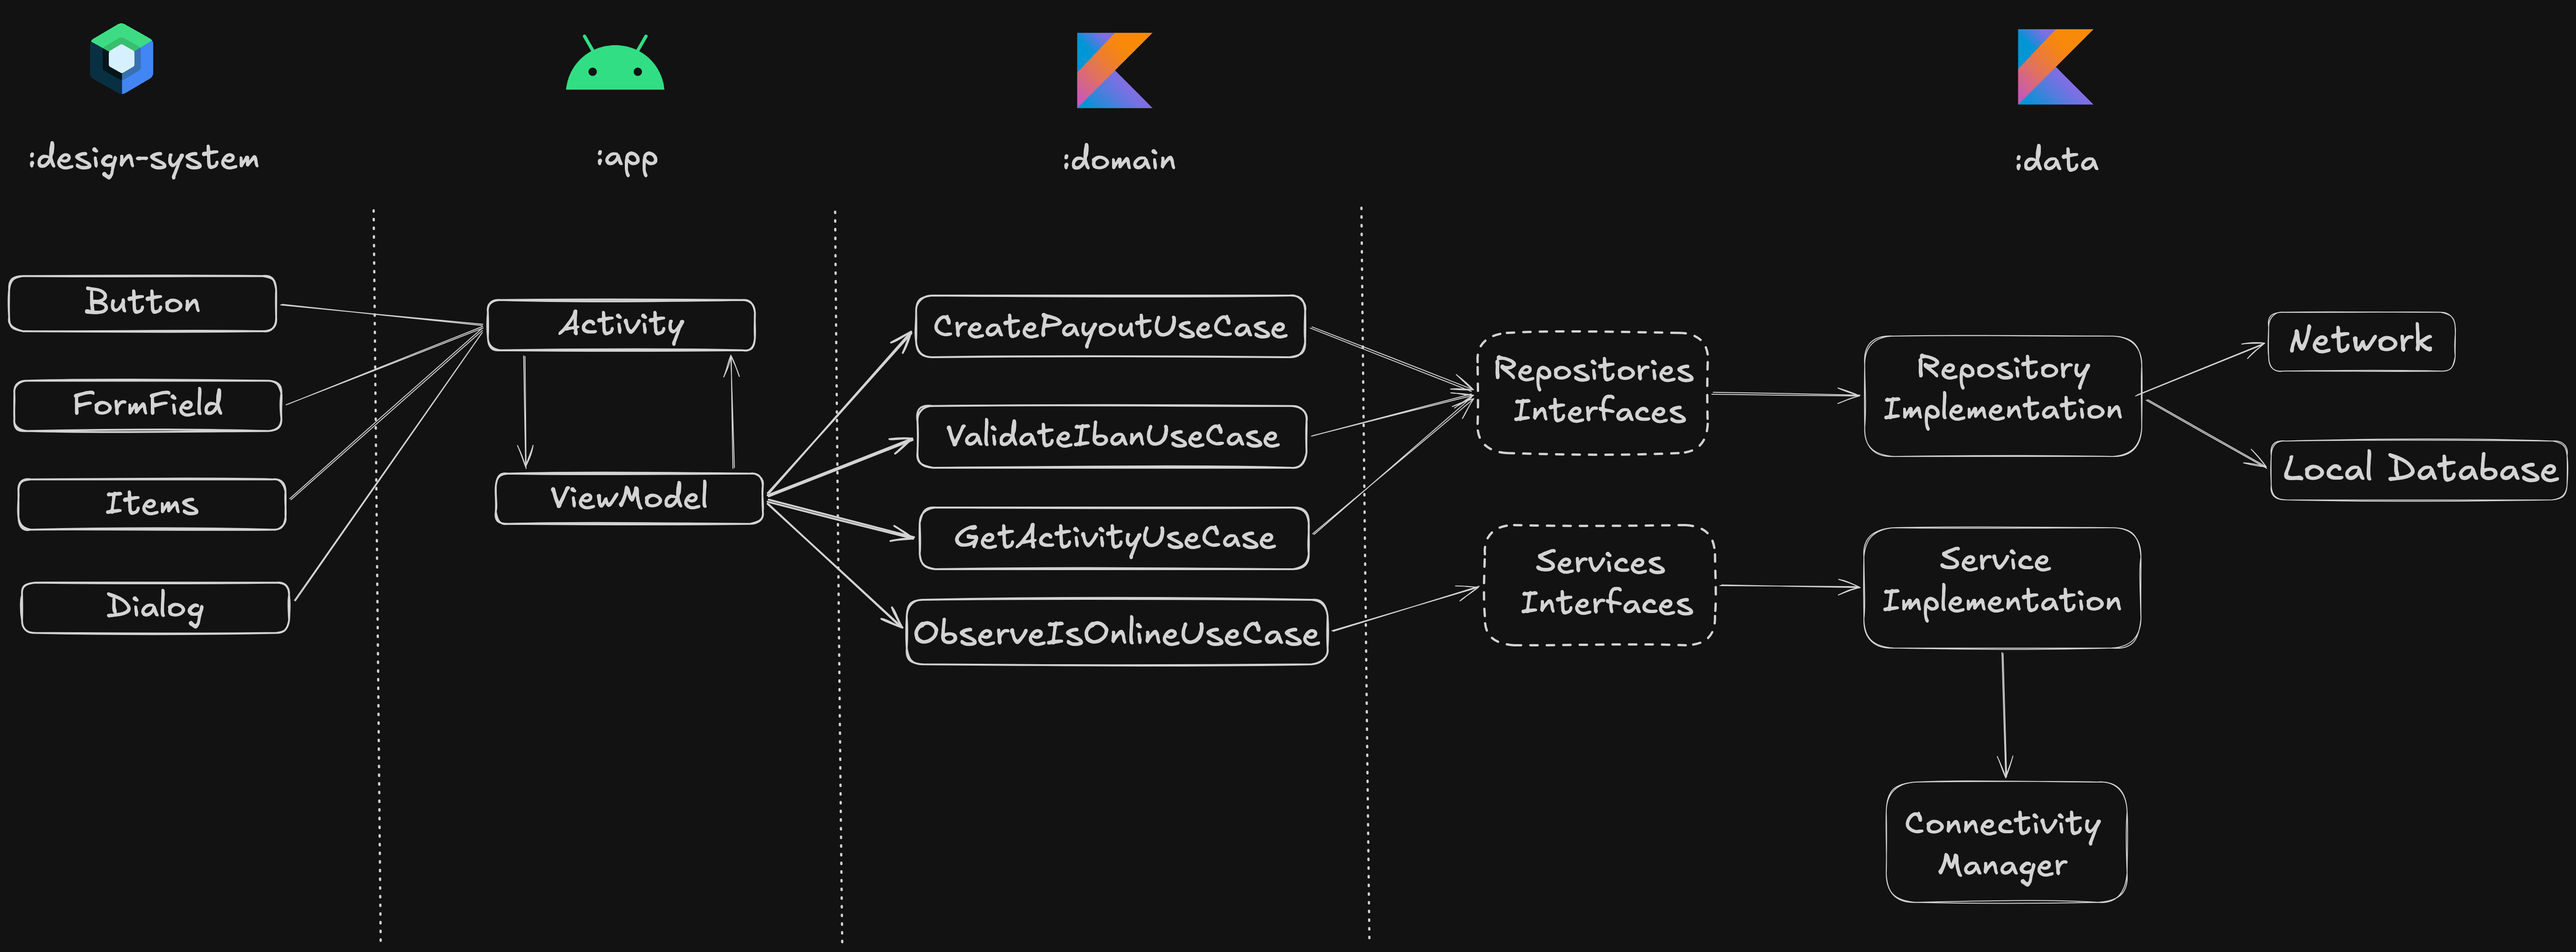
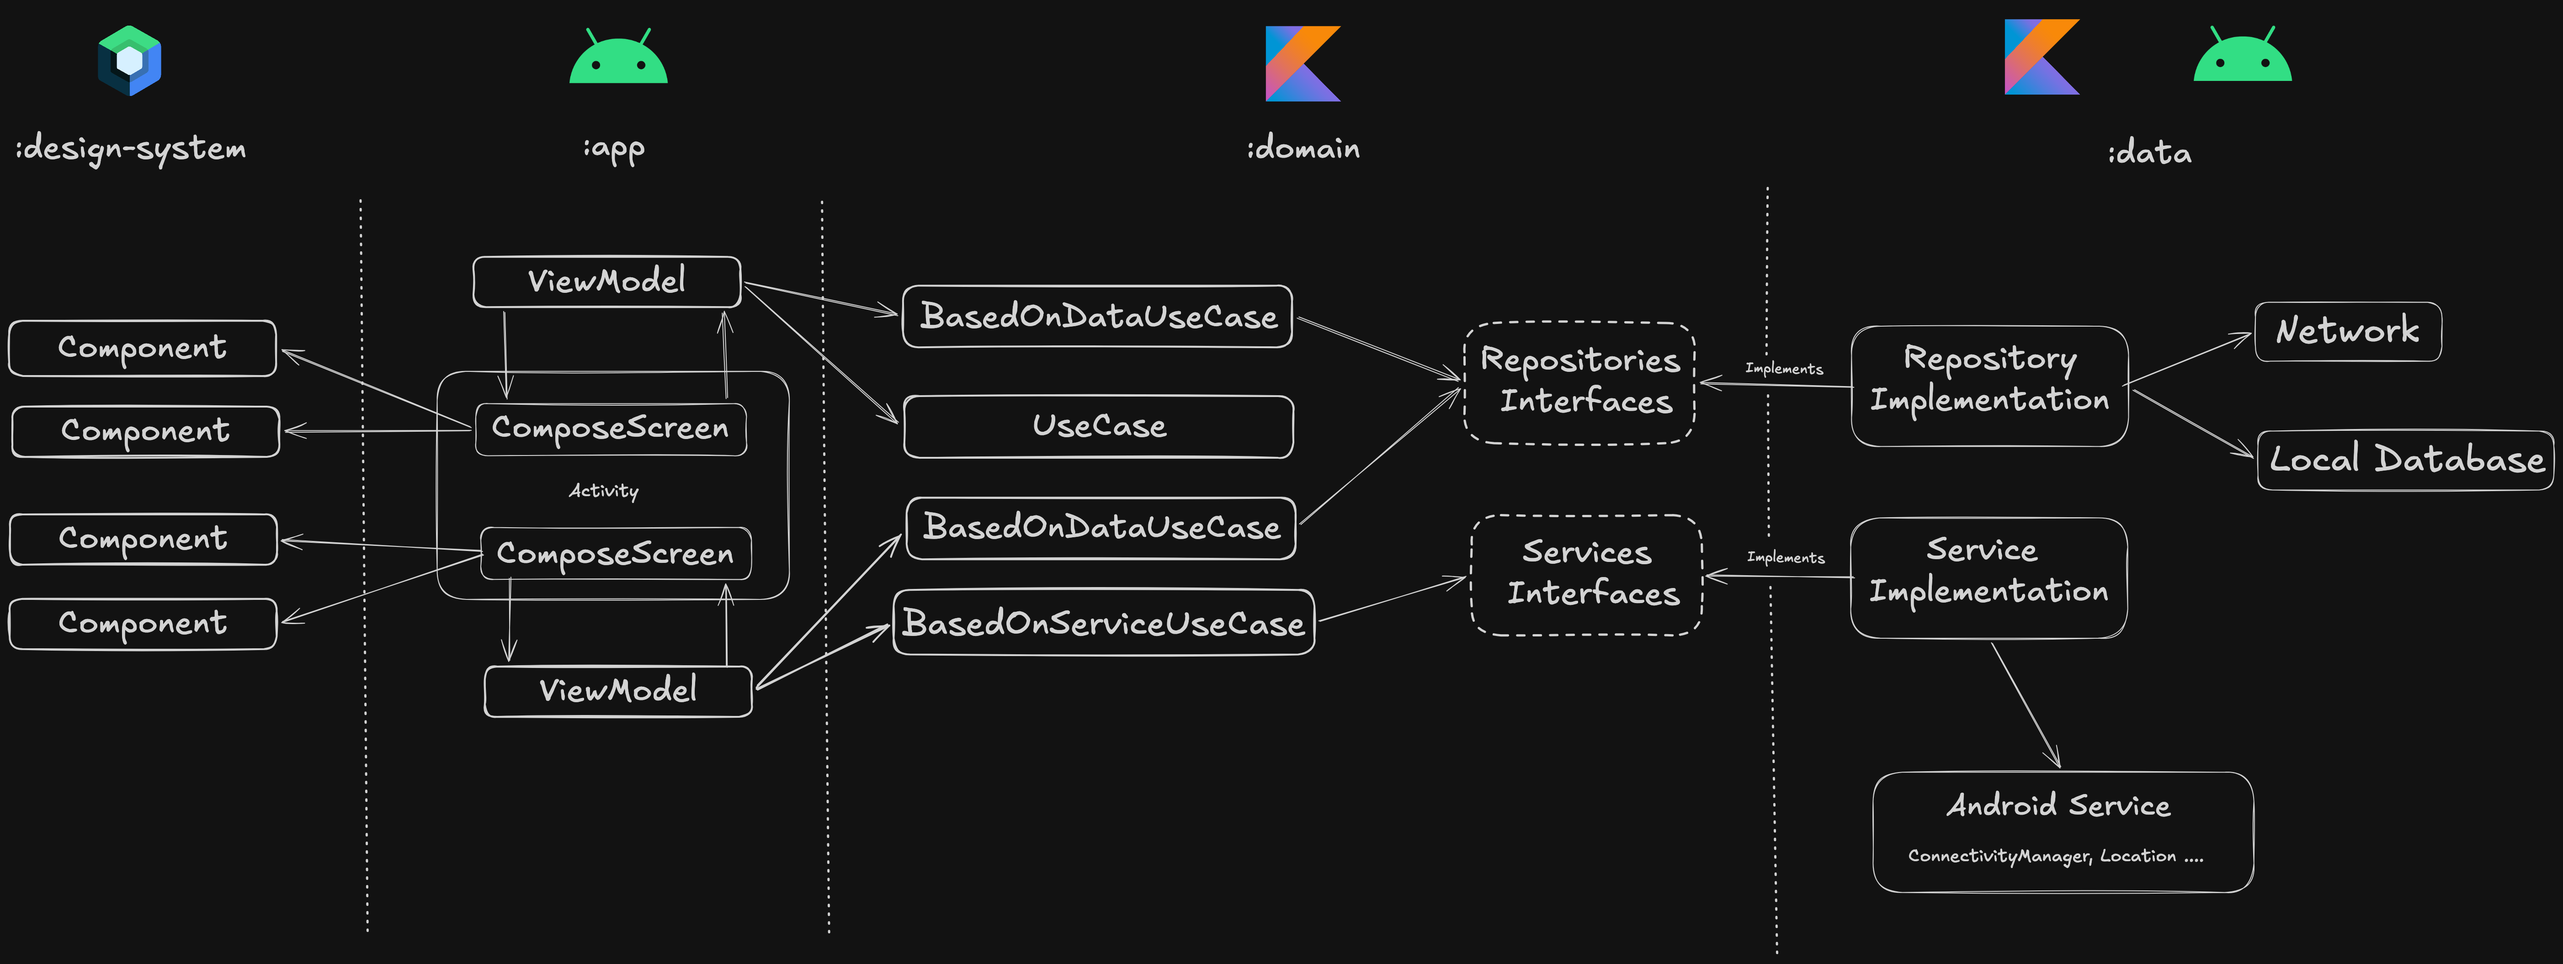
chore: update the architecture.png

diff --git a/NOTES.md b/NOTES.md
@@ -130,11 +130,17 @@ For more information, see the [guide to Android app modularization](https://deve
 
 - **Thresholds per currency from a remote source:** they could change without an app release, behind a `:domain` interface, so `ShouldRequestBiometricUseCase` doesn't change. They'd be fetched ahead of time and cached, so Confirm never waits on the network, with bundled defaults on first launch. If the fetch fails or a currency is missing, biometrics would be required.
 - **Supported currencies from a remote source:** `Currency` and `RemoteCurrency` are enums today, so adding a currency needs a release.
+- **Enable R8 in release:** `isMinifyEnabled` is `false` today, so the release build isn't shrunk, optimized or obfuscated, and there are no keep rules. Turning it on means adding any keep rules the app needs and testing the biometric and secure flows again on a release build.
+- **Performance tracing with Perfetto:** custom `androidx.tracing` sections around the Home load and the payout flow, and Macrobenchmark tests for startup and the transactions scroll, with the traces analysed in Perfetto. This would catch slowdowns as screens and features grow. It depends on R8 being enabled, because debug numbers aren't representative.
 
 **Observability**
 
 - **A small `PayoutTelemetry` interface with a Logcat implementation:** it would cover the payout funnel (form submitted, biometric required and its result, payout succeeded or failed by error type, offline shown), load errors and API latency. It would never log the IBAN or personal data, and would bucket amounts if it logged them at all.
 - **Mapping it to production:** Crashlytics non-fatals, Datadog or custom traces, alerts on payout success rate, and dashboards per currency and app version.
+
+**Testing**
+
+- **Integration tests:** instrumented tests of the payout flow against MockWebServer, including the `99999` and `88888` triggers, and of `EncryptedDevicePreferences`, which has no unit tests because it needs a real Android Keystore that the JVM doesn't have.
 
 ## What I left out and why
 
